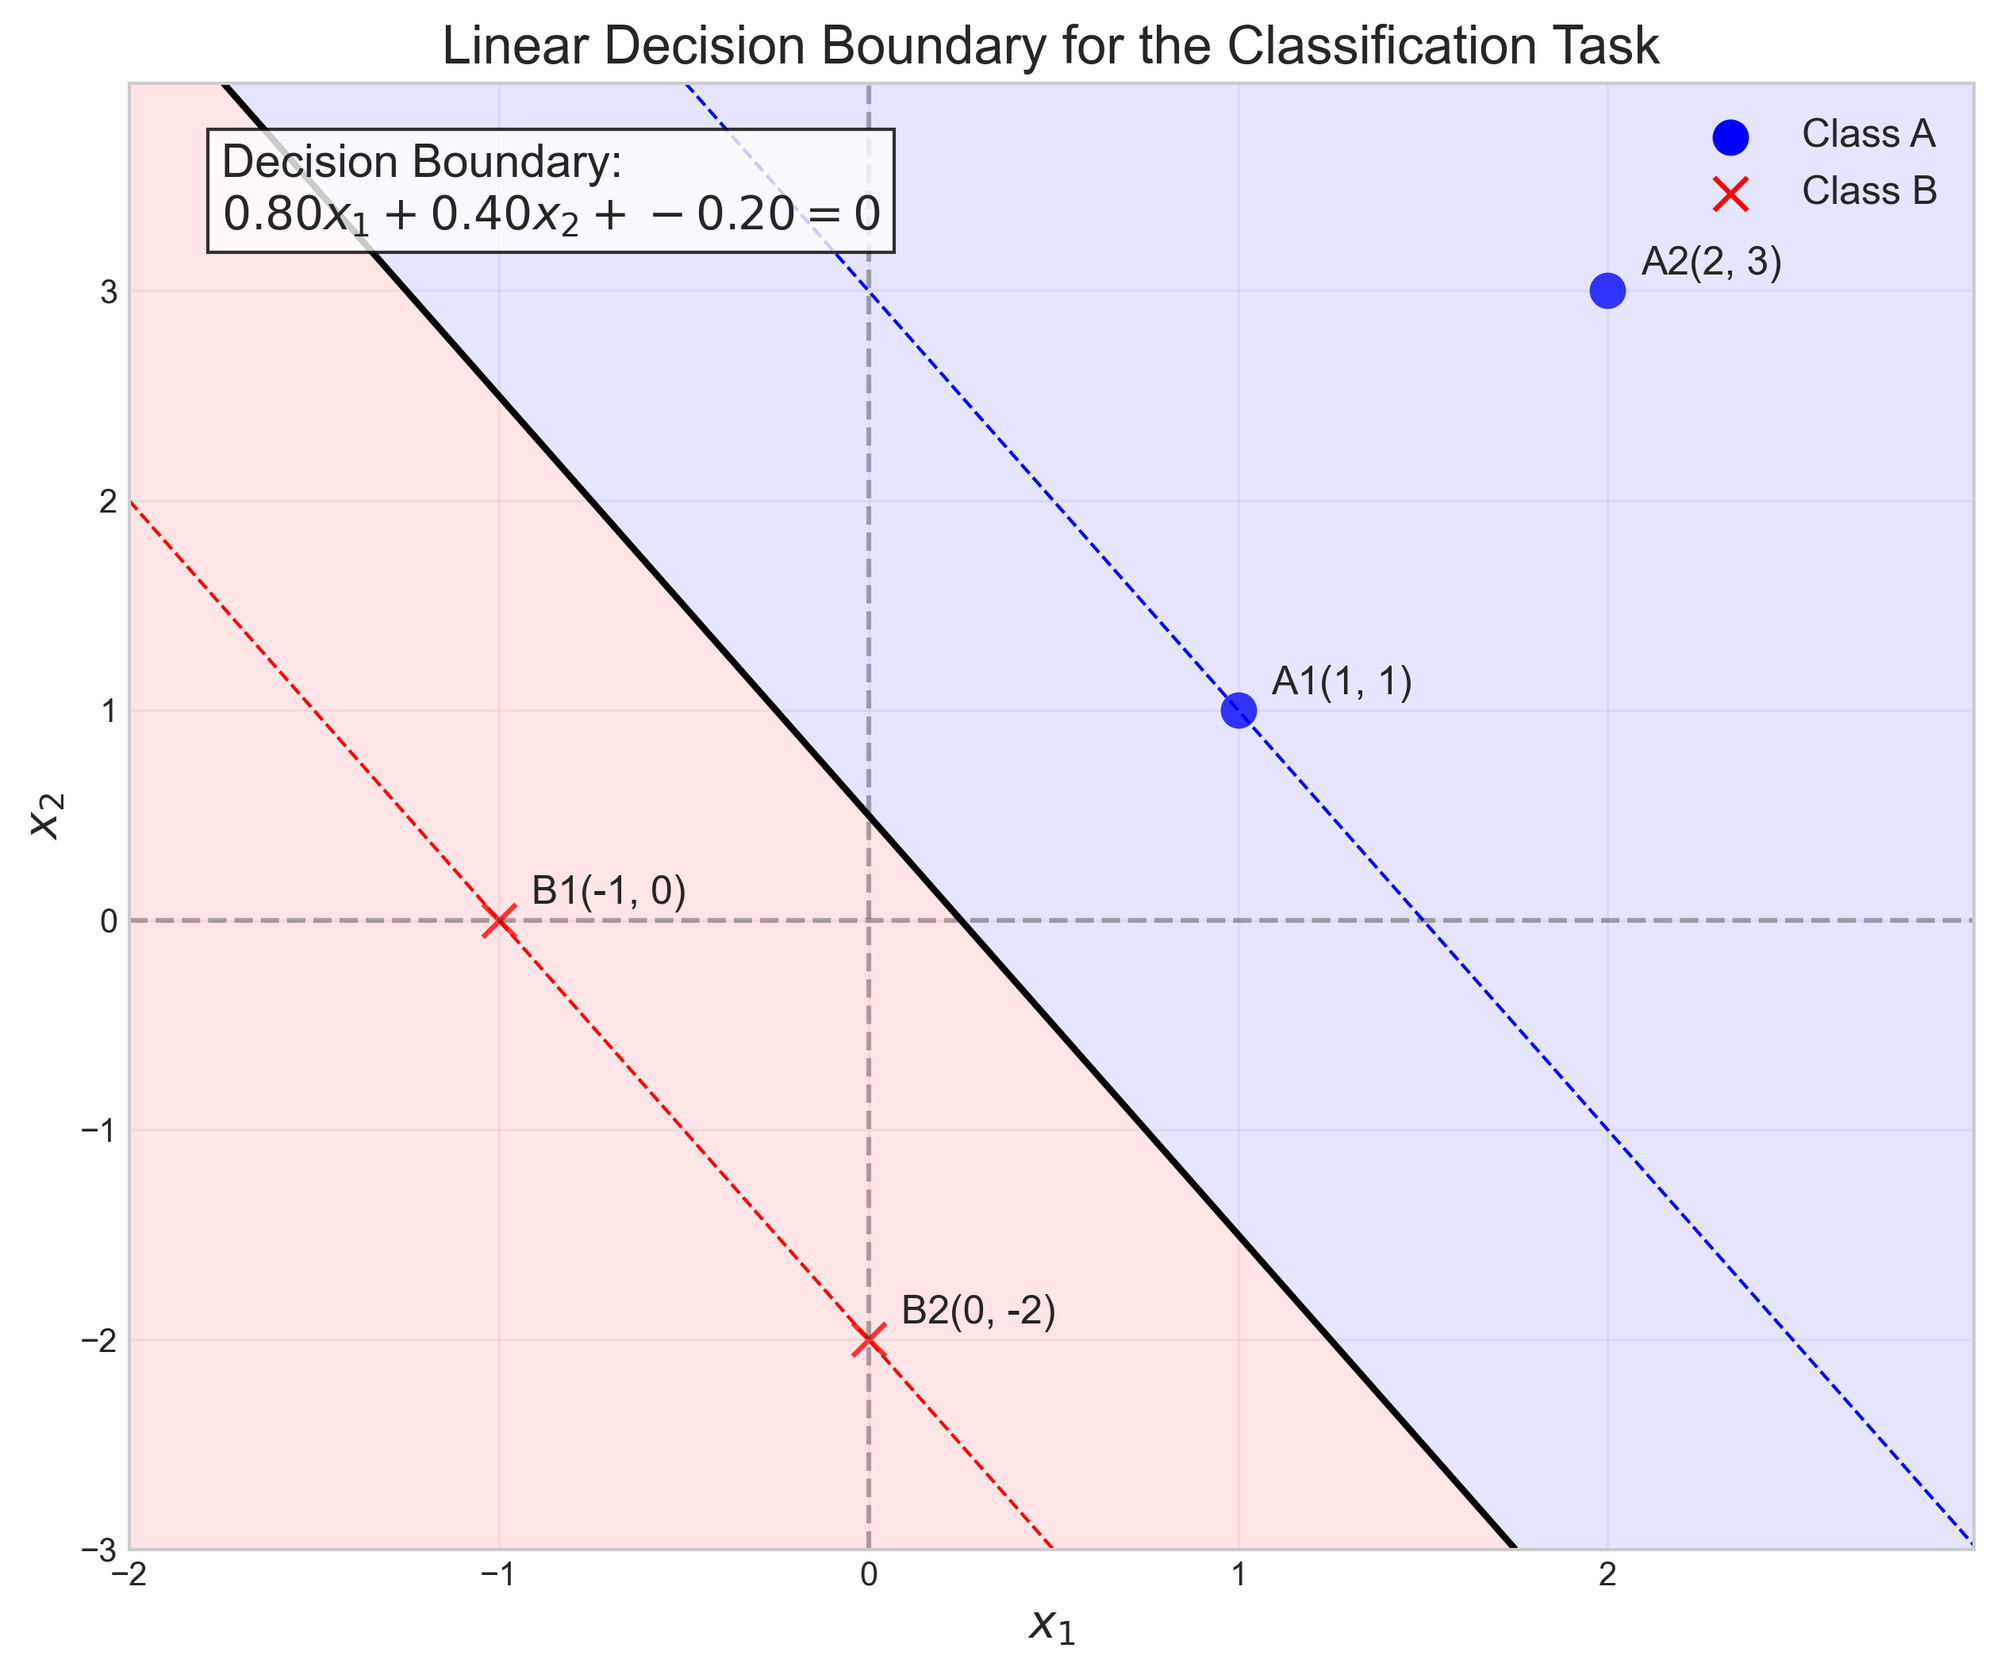
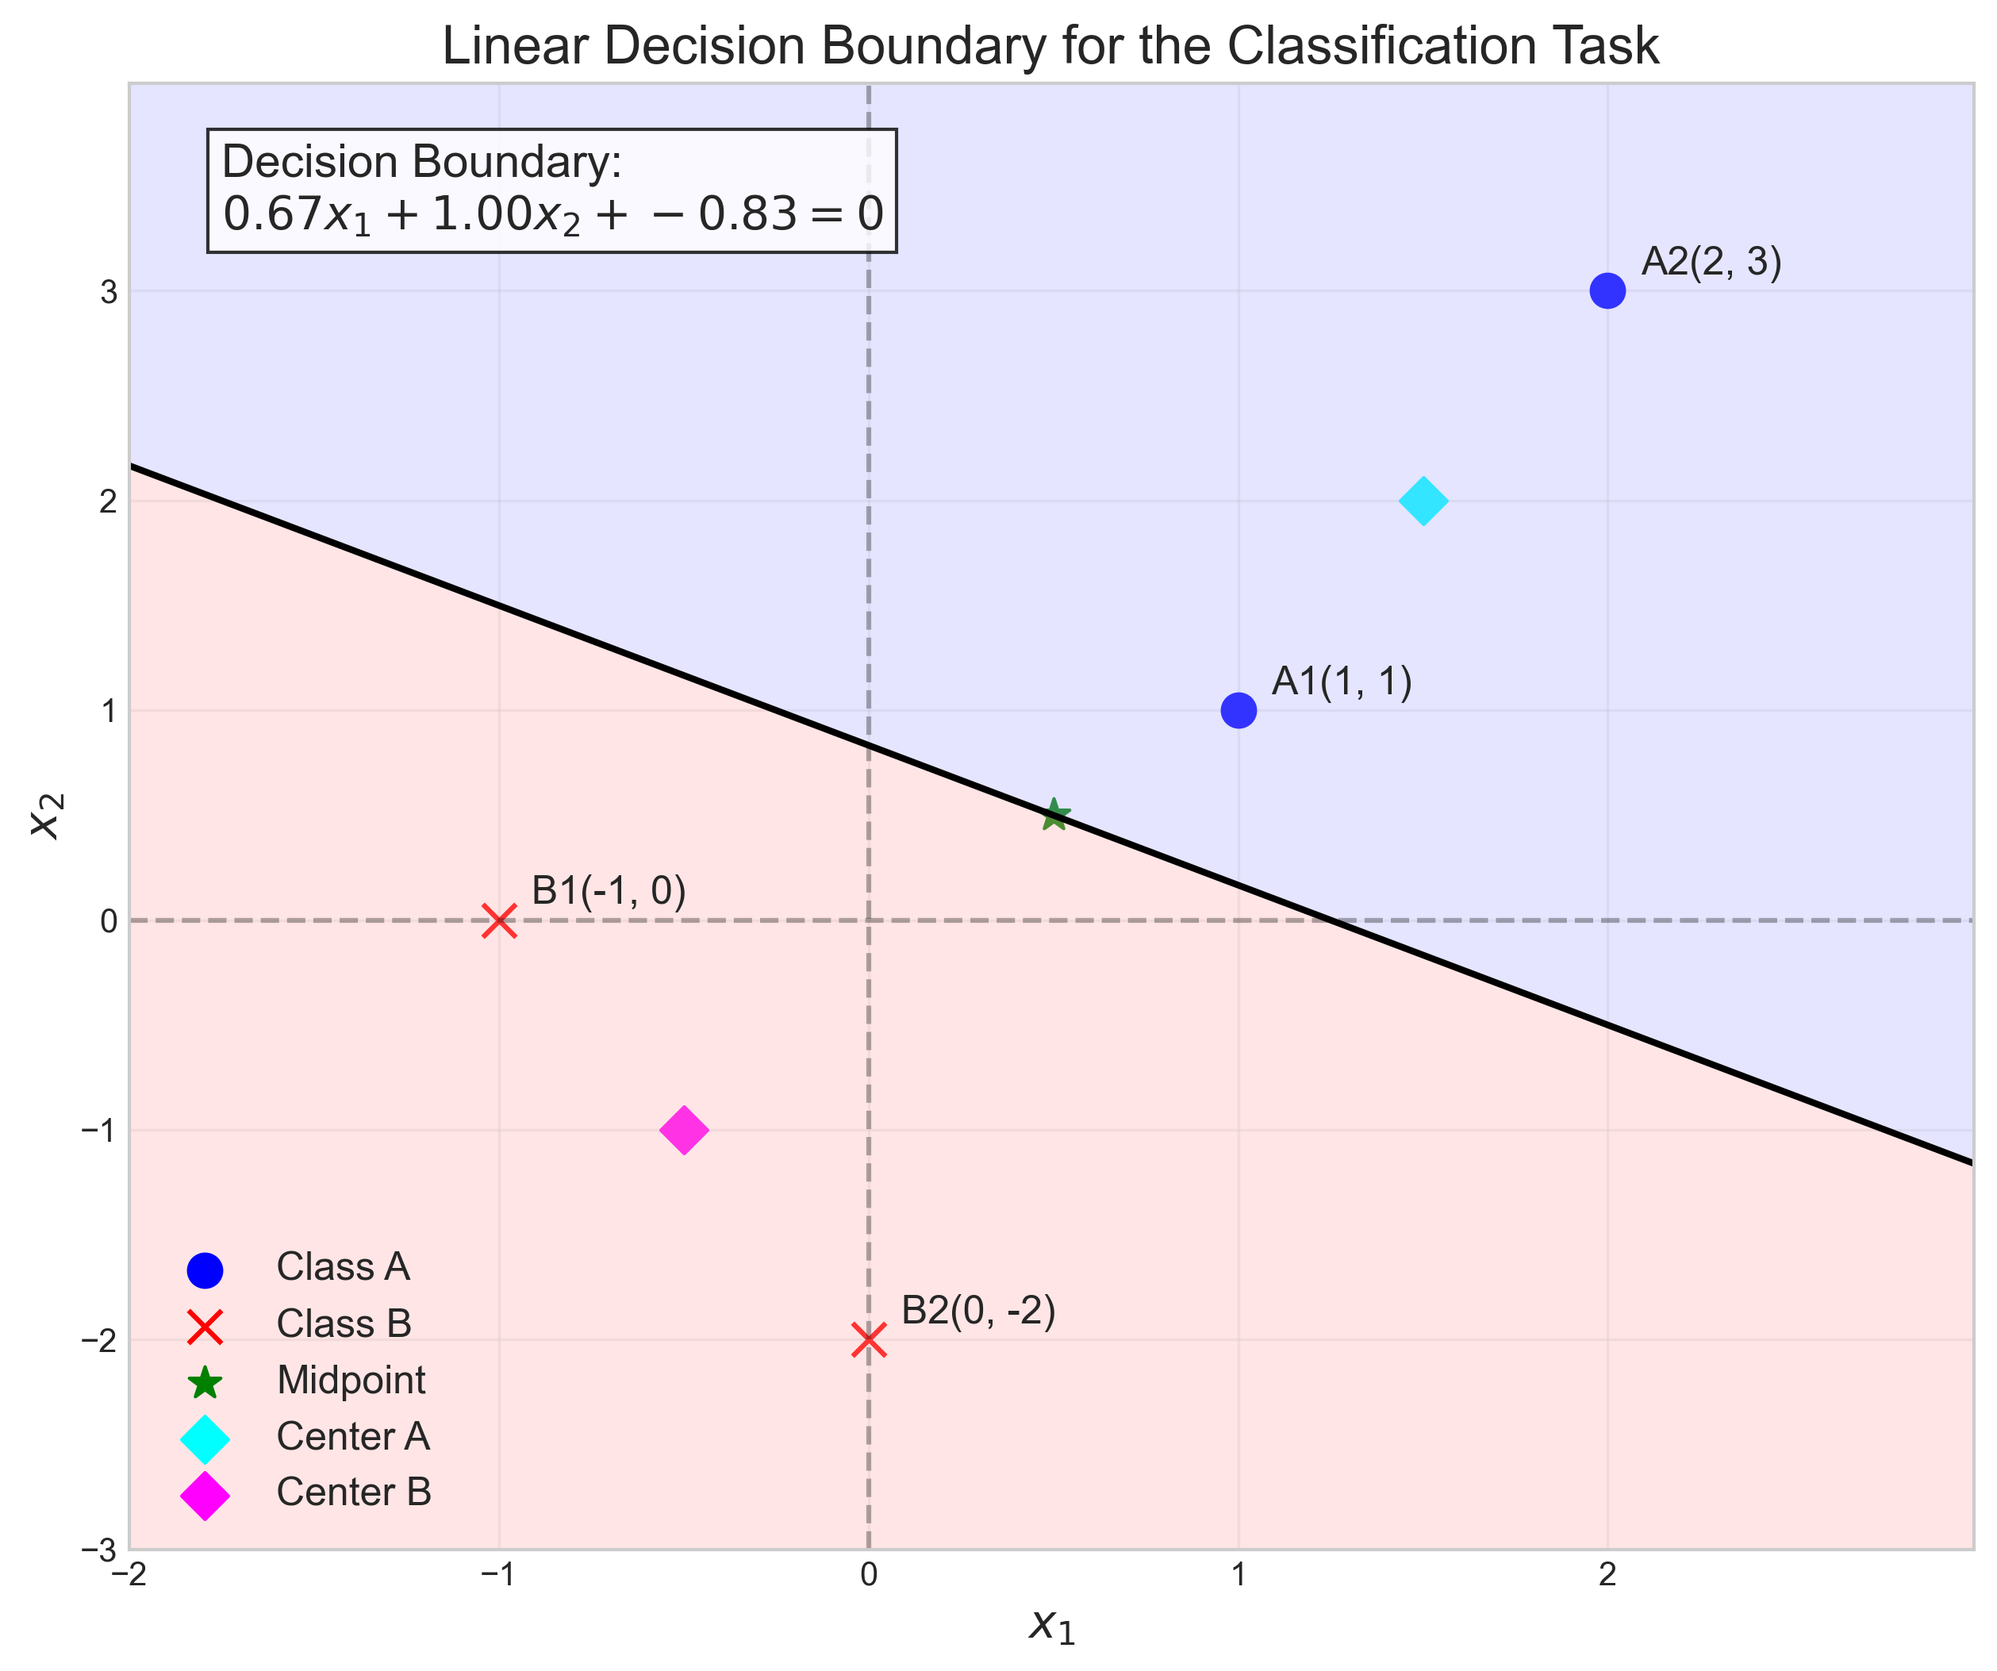
fix

diff --git a/ML_Obsidian_Vault/Lectures/4/Codes/L4_4_1_solution.py b/ML_Obsidian_Vault/Lectures/4/Codes/L4_4_1_solution.py
@@ -1,6 +1,5 @@
 import numpy as np
 import matplotlib.pyplot as plt
-from sklearn.svm import LinearSVC
 import os
 
 # Create directory to save figures
@@ -52,44 +51,67 @@ print("Class A: (1, 1), (2, 3)")
 print("Class B: (-1, 0), (0, -2)")
 print("The points are well separated in the 2D feature space.")
 
-# Step 2: Find a linear decision boundary
+# Step 2: Find a linear decision boundary using basic geometry
 print("\nStep 2: Find a linear decision boundary")
 print("----------------------------------")
 
-# Prepare data for the SVM
-X = np.vstack([class_A, class_B])
-y = np.array([1, 1, -1, -1])  # 1 for class A, -1 for class B
+# Calculate the center of each class (centroid)
+center_A = np.mean(class_A, axis=0)
+center_B = np.mean(class_B, axis=0)
+print(f"Center of Class A: ({center_A[0]}, {center_A[1]})")
+print(f"Center of Class B: ({center_B[0]}, {center_B[1]})")
 
-# Train a linear SVM
-clf = LinearSVC(dual="auto", loss='hinge', C=100)
-clf.fit(X, y)
+# Calculate the slope of the line connecting the centroids
+# m = (y2 - y1) / (x2 - x1)
+m_centroids = (center_B[1] - center_A[1]) / (center_B[0] - center_A[0])
+print(f"Slope of line connecting centroids: {m_centroids:.4f}")
 
-# Get the parameters of the decision boundary
-w = clf.coef_[0]  # The coefficients w1, w2
-b = clf.intercept_[0]  # The bias term
+# The perpendicular line will be our decision boundary
+# m1 * m2 = -1 => m2 = -1/m1
+m_boundary = -1 / m_centroids
+print(f"Slope of the decision boundary: {m_boundary:.4f}")
 
+# Calculate the midpoint between the centroids
+midpoint = (center_A + center_B) / 2
+print(f"Midpoint between centroids: ({midpoint[0]}, {midpoint[1]})")
+
+# Use the point-slope form to get the decision boundary equation
+# y - y1 = m(x - x1)
+# Where (x1, y1) is the midpoint and m is the slope of the boundary
+# Rearranging to standard form: y = mx + b => -mx + y - b = 0
+# Therefore: w1 = -m, w2 = 1, b = -b_intercept
+b_intercept = midpoint[1] - m_boundary * midpoint[0]
+w1 = -m_boundary
+w2 = 1
+b = -b_intercept
+
+# Convert to the standard form: w1*x1 + w2*x2 + b = 0
 print(f"The decision boundary parameters are:")
-print(f"w1 = {w[0]:.4f}, w2 = {w[1]:.4f}, b = {b:.4f}")
-print(f"Decision boundary equation: {w[0]:.4f}x₁ + {w[1]:.4f}x₂ + {b:.4f} = 0")
+print(f"w1 = {w1:.4f}, w2 = {w2:.4f}, b = {b:.4f}")
+print(f"Decision boundary equation: {w1:.4f}x₁ + {w2:.4f}x₂ + {b:.4f} = 0")
 
 # Step 3: Plot the decision boundary
 print("\nStep 3: Plot the decision boundary")
 print("-------------------------------")
 
 # Create a meshgrid to plot the decision boundary
+X = np.vstack([class_A, class_B])
 x_min, x_max = X[:, 0].min() - 1, X[:, 0].max() + 1
 y_min, y_max = X[:, 1].min() - 1, X[:, 1].max() + 1
 xx, yy = np.meshgrid(np.arange(x_min, x_max, 0.01),
                      np.arange(y_min, y_max, 0.01))
 
-# Get the prediction for each point in the meshgrid
-Z = clf.decision_function(np.c_[xx.ravel(), yy.ravel()])
+# Calculate decision function values for the meshgrid
+Z = w1 * xx + w2 * yy + b
 Z = Z.reshape(xx.shape)
 
 # Create the final plot with decision boundary
 plt.figure(figsize=(10, 8))
 plt.scatter(class_A[:, 0], class_A[:, 1], color='blue', s=100, marker='o', label='Class A')
 plt.scatter(class_B[:, 0], class_B[:, 1], color='red', s=100, marker='x', label='Class B')
+plt.scatter([midpoint[0]], [midpoint[1]], color='green', s=100, marker='*', label='Midpoint')
+plt.scatter([center_A[0]], [center_A[1]], color='cyan', s=100, marker='D', label='Center A')
+plt.scatter([center_B[0]], [center_B[1]], color='magenta', s=100, marker='D', label='Center B')
 
 # Label the points
 for i, point in enumerate(class_A):
@@ -99,15 +121,14 @@ for i, point in enumerate(class_B):
     plt.annotate(f'B{i+1}({point[0]}, {point[1]})', (point[0], point[1]), 
                  xytext=(10, 5), textcoords='offset points', fontsize=12)
 
-# Plot the decision boundary and margins
-plt.contour(xx, yy, Z, levels=[-1, 0, 1], colors=['red', 'black', 'blue'], 
-            linestyles=['--', '-', '--'], linewidths=[1, 2, 1])
+# Plot the decision boundary
+plt.contour(xx, yy, Z, levels=[0], colors=['black'], linestyles=['-'], linewidths=[2])
 
 # Fill the regions
 plt.contourf(xx, yy, Z, levels=[-float('inf'), 0, float('inf')], colors=['#FFAAAA', '#AAAAFF'], alpha=0.3)
 
 # Add decision boundary equation to the plot
-boundary_eq = f"${w[0]:.2f}x_1 + {w[1]:.2f}x_2 + {b:.2f} = 0$"
+boundary_eq = f"${w1:.2f}x_1 + {w2:.2f}x_2 + {b:.2f} = 0$"
 plt.text(0.05, 0.9, f"Decision Boundary:\n{boundary_eq}", transform=plt.gca().transAxes, 
          fontsize=14, bbox=dict(facecolor='white', alpha=0.8))
 
@@ -129,22 +150,18 @@ print("The line is positioned to separate the two classes.")
 print("\nStep 4: Check if the data is linearly separable")
 print("------------------------------------------")
 
-# Predict the class labels
-y_pred = clf.predict(X)
+# Calculate decision function values for data points
+decision_values = np.dot(X, [w1, w2]) + b
+y = np.array([1, 1, -1, -1])  # 1 for class A, -1 for class B
+y_pred = np.sign(decision_values)
 
 # Check if all points are correctly classified
 is_separable = np.all(y == y_pred)
 
 print("Checking if each point is correctly classified by the decision boundary:")
-for i, (point, true_label, pred_label) in enumerate(zip(X, y, y_pred)):
+for i, (point, true_label, pred_label, score) in enumerate(zip(X, y, y_pred, decision_values)):
     is_correct = true_label == pred_label
-    print(f"Point {i+1}: {point} - True label: {true_label}, Predicted label: {pred_label}, Correctly classified: {is_correct}")
-
-# Distance of each point to the decision boundary
-distances = (np.dot(X, w) + b) / np.linalg.norm(w)
-print("\nDistance of each point to the decision boundary:")
-for i, (point, dist) in enumerate(zip(X, distances)):
-    print(f"Point {i+1}: {point} - Distance: {dist:.4f}")
+    print(f"Point {i+1}: {point} - True label: {true_label}, Predicted label: {pred_label}, Score: {score:.4f}, Correctly classified: {is_correct}")
 
 # Verification of linear separability
 if is_separable:
@@ -190,7 +207,7 @@ for i, point in enumerate(class_B):
     plt.annotate(f'B{i+1}({point[0]}, {point[1]})', (point[0], point[1]), 
                  xytext=(10, 5), textcoords='offset points', fontsize=12)
 
-# Plot the manual decision boundary
+# Function to plot a decision boundary line
 def plot_line(w, b, color='purple', label='Alternative'):
     # Create a line based on the weights and bias
     if w[1] != 0:  # Check if w2 is not zero to avoid division by zero
@@ -211,15 +228,15 @@ def plot_line(w, b, color='purple', label='Alternative'):
         y_above = np.maximum(yy_boundary, y_min)
         y_below = np.minimum(yy_boundary, y_max)
         
-        if w[1] > 0:  # Adjust based on the orientation of the boundary
+        if (w[0]/w[1]) < 0:  # Adjust based on the orientation of the boundary
             plt.fill_between(xx_fill, y_above, y_max, alpha=0.2, color='blue')
             plt.fill_between(xx_fill, y_min, y_below, alpha=0.2, color='red')
         else:
             plt.fill_between(xx_fill, y_above, y_max, alpha=0.2, color='red')
             plt.fill_between(xx_fill, y_min, y_below, alpha=0.2, color='blue')
 
-# Plot both the SVM and manual decision boundaries
-plot_line(w, b, color='black', label='SVM Boundary')
+# Plot both the geometric and manual decision boundaries
+plot_line([w1, w2], b, color='black', label='Geometric Boundary')
 plot_line(w_manual, b_manual, color='purple', label='Alternative Boundary')
 
 plt.xlabel('$x_1$', fontsize=14)
@@ -230,9 +247,9 @@ plt.axvline(x=0, color='k', linestyle='--', alpha=0.3)
 plt.legend(fontsize=12)
 plt.grid(True, alpha=0.3)
 
-boundary_eq_svm = f"SVM: ${w[0]:.2f}x_1 + {w[1]:.2f}x_2 + {b:.2f} = 0$"
+boundary_eq_geom = f"Geom: ${w1:.2f}x_1 + {w2:.2f}x_2 + {b:.2f} = 0$"
 boundary_eq_manual = f"Alt: ${w_manual[0]}x_1 + {w_manual[1]}x_2 + {b_manual} = 0$"
-plt.text(0.05, 0.95, boundary_eq_svm, transform=plt.gca().transAxes, 
+plt.text(0.05, 0.95, boundary_eq_geom, transform=plt.gca().transAxes, 
          fontsize=14, bbox=dict(facecolor='white', alpha=0.8))
 plt.text(0.05, 0.87, boundary_eq_manual, transform=plt.gca().transAxes, 
          fontsize=14, bbox=dict(facecolor='white', alpha=0.8))
@@ -246,5 +263,5 @@ print("The dataset is linearly separable because:")
 print("1. We found multiple linear decision boundaries that perfectly separate the classes")
 print("2. All points are correctly classified by both boundaries")
 print("3. Each class lies entirely on one side of the decision boundary")
-print(f"4. The SVM boundary equation is: {w[0]:.4f}x₁ + {w[1]:.4f}x₂ + {b:.4f} = 0")
+print(f"4. The geometric boundary equation is: {w1:.4f}x₁ + {w2:.4f}x₂ + {b:.4f} = 0")
 print(f"5. The alternative boundary equation is: {w_manual[0]}x₁ + {w_manual[1]}x₂ + {b_manual} = 0") 

diff --git a/ML_Obsidian_Vault/Lectures/4/Quiz/L4_4_1_explanation.md b/ML_Obsidian_Vault/Lectures/4/Quiz/L4_4_1_explanation.md
@@ -31,11 +31,36 @@ Looking at the plot, we can see that the points from Class A are located in the 
 To find a linear decision boundary, we need to determine parameters $w_1$, $w_2$, and $b$ for the equation:
 $w_1x_1 + w_2x_2 + b = 0$
 
-Using a linear SVM (Support Vector Machine) algorithm, we can find parameters that optimally separate the classes:
-$w_1 = 0.8000$, $w_2 = 0.4000$, $b = -0.2000$
+We can use basic geometry to find this boundary:
+
+1. First, calculate the center (centroid) of each class:
+   - Center of Class A: (1.5, 2.0)
+   - Center of Class B: (-0.5, -1.0)
+
+2. Find the slope of the line connecting these centroids:
+   - $m_{centroids} = \frac{y_B - y_A}{x_B - x_A} = \frac{-1.0 - 2.0}{-0.5 - 1.5} = \frac{-3.0}{-2.0} = 1.5$
+
+3. The decision boundary should be perpendicular to this line, so its slope is:
+   - $m_{boundary} = -\frac{1}{m_{centroids}} = -\frac{1}{1.5} = -0.6667$
+
+4. Find the midpoint between the centroids:
+   - Midpoint = ((1.5 + (-0.5))/2, (2.0 + (-1.0))/2) = (0.5, 0.5)
+
+5. Use the point-slope form to get the equation of the decision boundary:
+   - $y - y_1 = m(x - x_1)$
+   - $y - 0.5 = -0.6667(x - 0.5)$
+   - $y - 0.5 = -0.6667x + 0.3333$
+   - $y = -0.6667x + 0.8333$
+
+6. Convert to the standard form $w_1x_1 + w_2x_2 + b = 0$:
+   - $-0.6667x + y - 0.8333 = 0$
+   - $0.6667x + 1.0y - 0.8333 = 0$
+
+Therefore, the parameters are:
+$w_1 = 0.6667$, $w_2 = 1.0000$, $b = -0.8333$
 
 This gives us the decision boundary equation:
-$0.8000x_1 + 0.4000x_2 - 0.2000 = 0$
+$0.6667x_1 + 1.0000x_2 - 0.8333 = 0$
 
 ### Step 3: Verify the classification
 Let's check if this decision boundary correctly classifies all points:
@@ -47,18 +72,12 @@ For linear classifiers, a point is classified as:
 - Class B (negative class) if $w_1x_1 + w_2x_2 + b < 0$
 
 Checking each point:
-1. Point $(1, 1)$ from Class A: $0.8×1 + 0.4×1 - 0.2 = 1.0 > 0$ → Correctly classified as Class A
-2. Point $(2, 3)$ from Class A: $0.8×2 + 0.4×3 - 0.2 = 2.6 > 0$ → Correctly classified as Class A
-3. Point $(-1, 0)$ from Class B: $0.8×(-1) + 0.4×0 - 0.2 = -1.0 < 0$ → Correctly classified as Class B
-4. Point $(0, -2)$ from Class B: $0.8×0 + 0.4×(-2) - 0.2 = -1.0 < 0$ → Correctly classified as Class B
+1. Point $(1, 1)$ from Class A: $0.6667×1 + 1.0×1 - 0.8333 = 0.8333 > 0$ → Correctly classified as Class A
+2. Point $(2, 3)$ from Class A: $0.6667×2 + 1.0×3 - 0.8333 = 3.5000 > 0$ → Correctly classified as Class A
+3. Point $(-1, 0)$ from Class B: $0.6667×(-1) + 1.0×0 - 0.8333 = -1.5000 < 0$ → Correctly classified as Class B
+4. Point $(0, -2)$ from Class B: $0.6667×0 + 1.0×(-2) - 0.8333 = -2.8333 < 0$ → Correctly classified as Class B
 
-The distances of each point from the decision boundary are:
-- Point $(1, 1)$: Distance = 1.1180
-- Point $(2, 3)$: Distance = 2.9069
-- Point $(-1, 0)$: Distance = -1.1180
-- Point $(0, -2)$: Distance = -1.1180
-
-The sign of the distance indicates which side of the boundary the point is on, and all signs agree with their respective class labels.
+All points are correctly classified by our decision boundary.
 
 ### Step 4: Demonstrate alternative boundaries
 To further illustrate that the dataset is linearly separable, we can show that different linear boundaries can also separate the classes. Let's try an alternative boundary:
@@ -80,6 +99,7 @@ The fact that we can find multiple linear boundaries that perfectly separate the
 - In 2D space, a linear decision boundary is a straight line
 - Classes are linearly separable if there exists at least one straight line that can separate them
 - For this dataset, the two classes are located in different quadrants of the coordinate system, making it visually apparent that a linear boundary can separate them
+- The boundary can be found using the perpendicular bisector of the line connecting the class centroids
 
 ### Mathematical Formulation
 - A linear decision boundary in 2D has the form $w_1x_1 + w_2x_2 + b = 0$
@@ -90,14 +110,13 @@ The fact that we can find multiple linear boundaries that perfectly separate the
 ### Practical Implications
 - Linearly separable datasets can be classified perfectly using simple linear models
 - The existence of multiple valid decision boundaries suggests that the classes are well-separated
-- The margin (minimum distance from points to the boundary) is relatively large, indicating robust separation
 - Linear separability is a useful property that simplifies the learning problem
 
 ## Conclusion
 The dataset is linearly separable because we can find a linear decision boundary (in the form $w_1x_1 + w_2x_2 + b = 0$) that perfectly separates the two classes, with all points from Class A on one side of the boundary and all points from Class B on the other side.
 
 Specifically, we found two different linear boundaries that achieve perfect separation:
-1. SVM boundary: $0.8000x_1 + 0.4000x_2 - 0.2000 = 0$
+1. Geometric boundary: $0.6667x_1 + 1.0000x_2 - 0.8333 = 0$
 2. Alternative boundary: $x_1 + x_2 - 1.5 = 0$
 
 This confirms that the dataset is linearly separable, meaning a linear classifier can achieve perfect classification on this dataset. 
